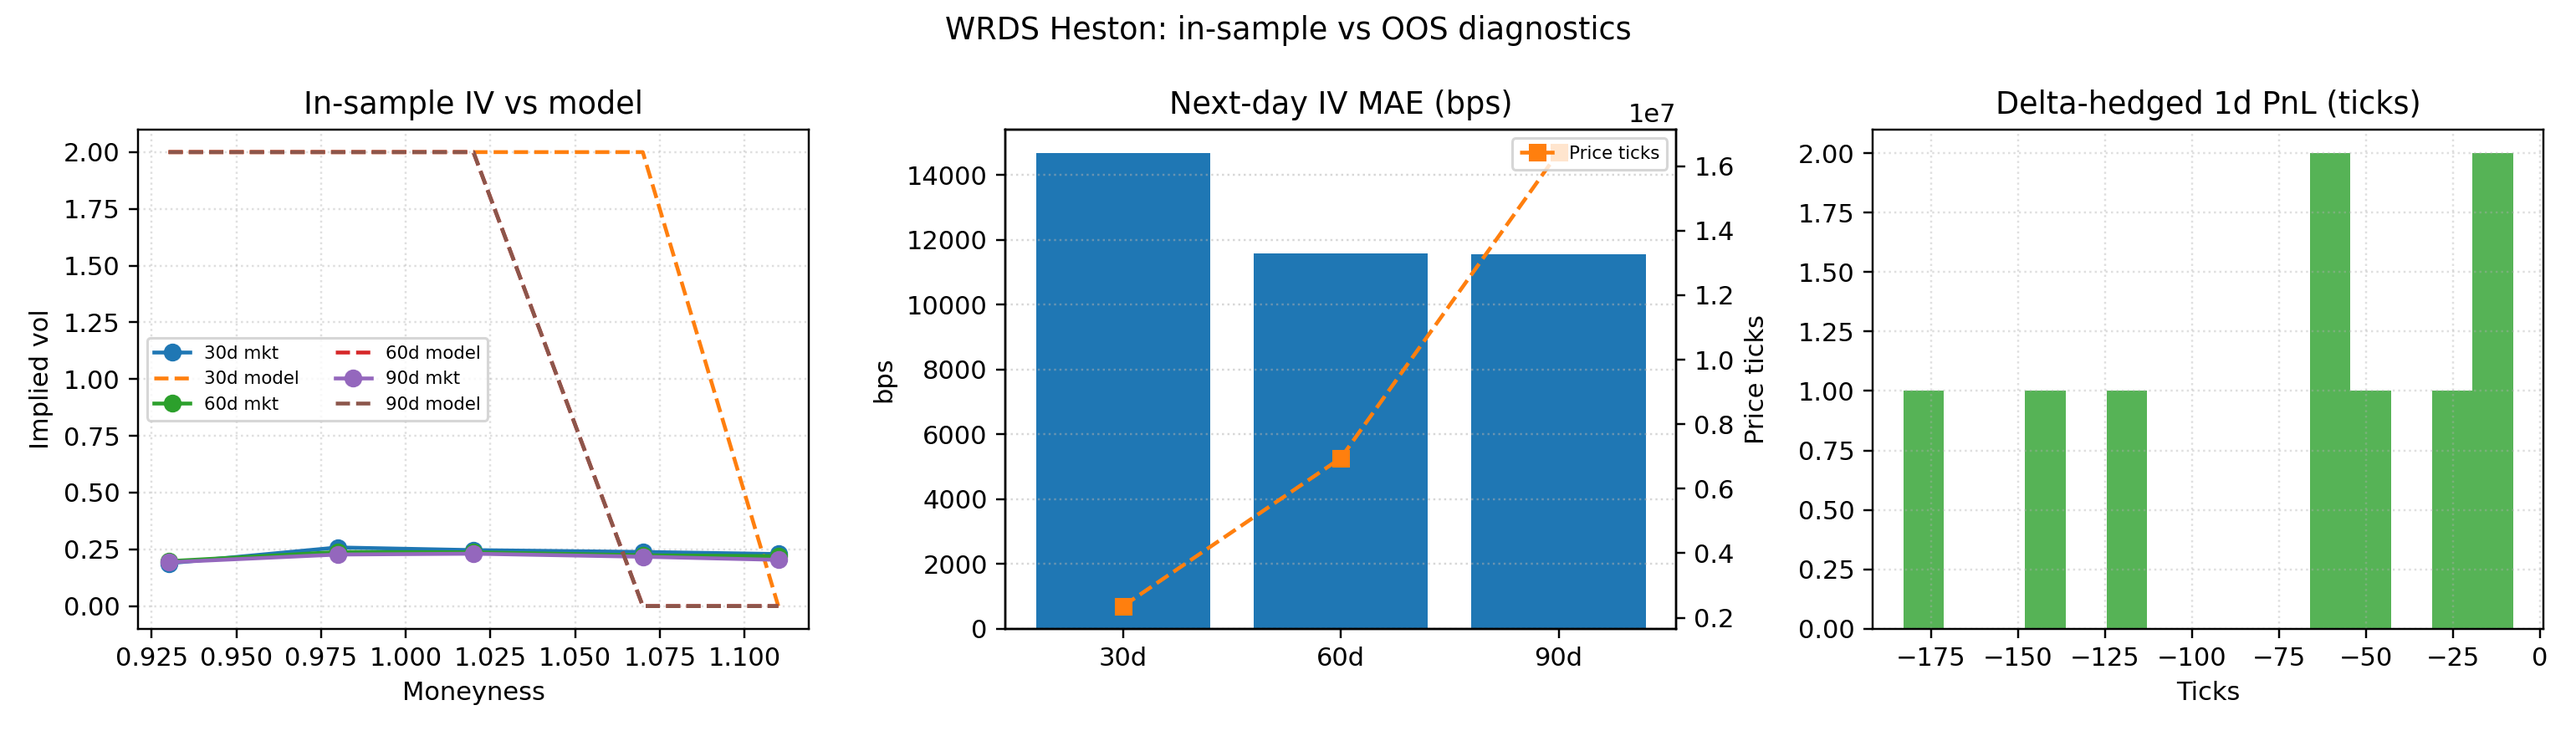
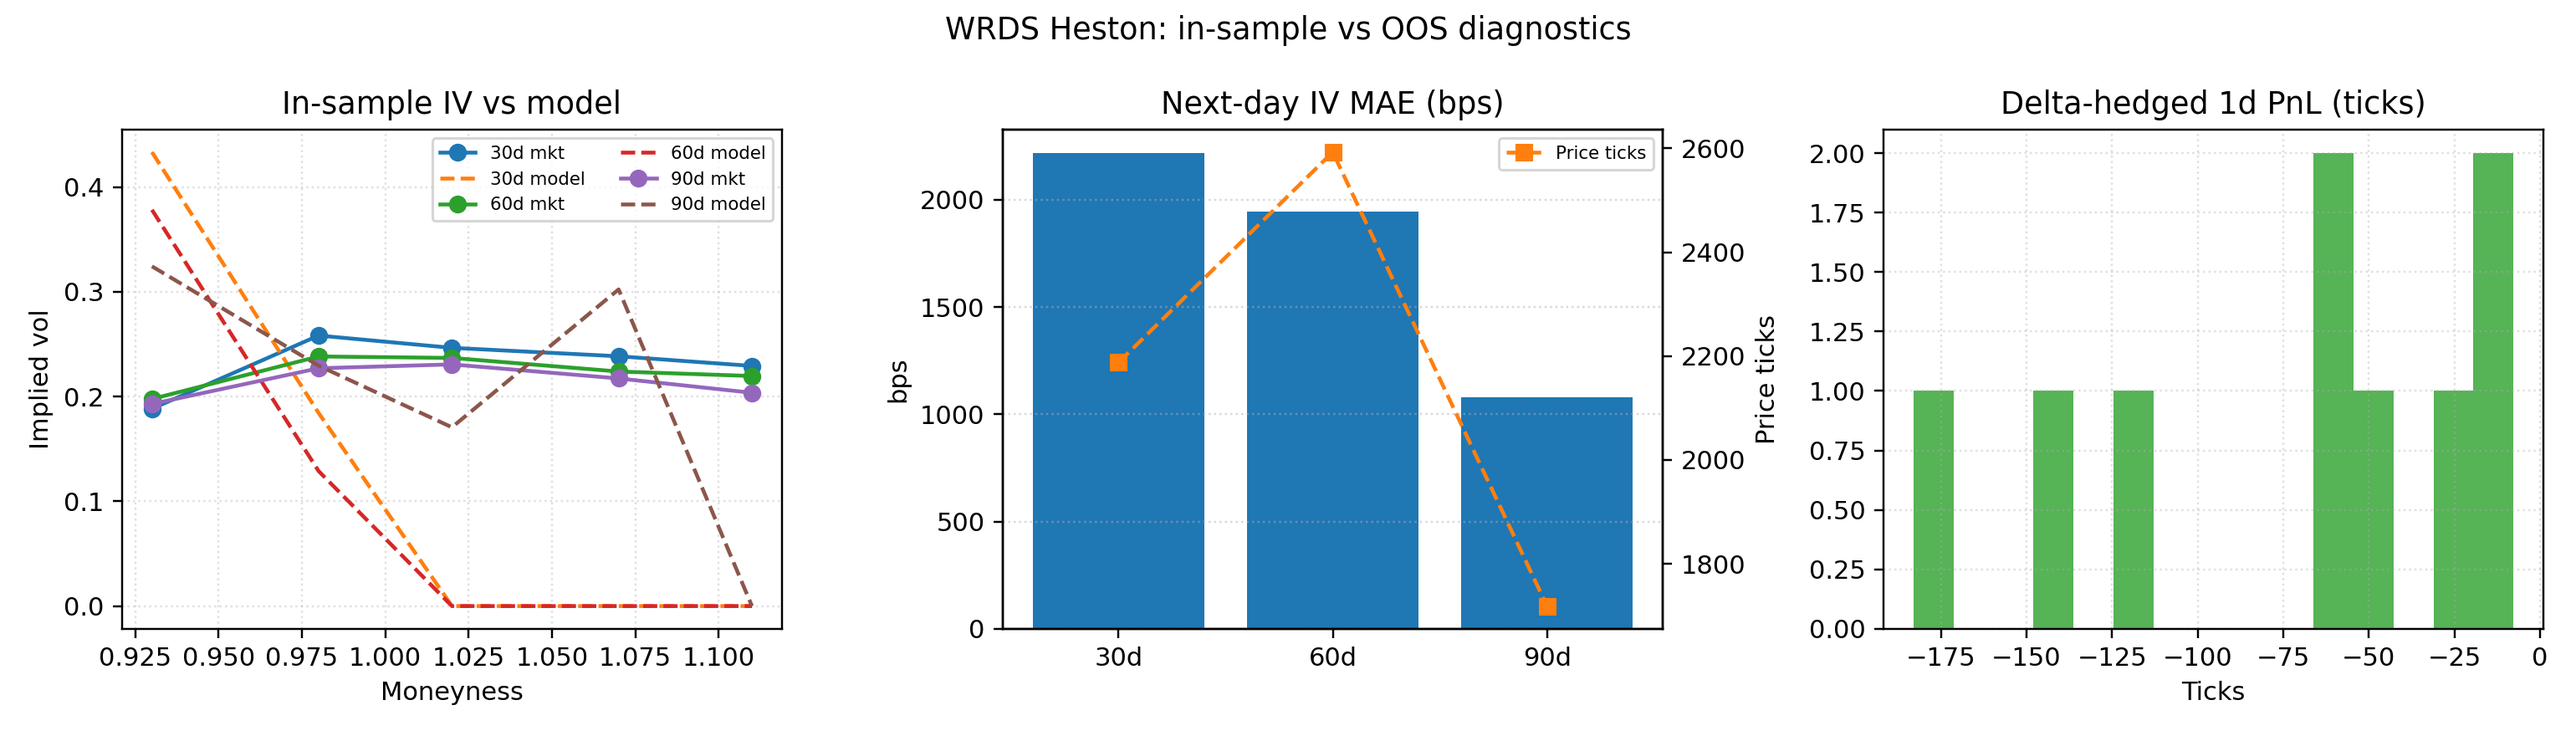
feat(wrds): SPX ingest + Heston calib (vega-weighted) + OOS/hedge; MARKET tests

diff --git a/wrds_pipeline/pipeline.py b/wrds_pipeline/pipeline.py
@@ -78,6 +78,64 @@ def _plot_wrds_summary(surface: pd.DataFrame, oos: pd.DataFrame, pnl: pd.DataFra
     plt.close(fig)
 
 
+def _plot_insample_surface(surface: pd.DataFrame, out_path: Path) -> None:
+    fig, ax = plt.subplots(figsize=(6, 4))
+    for bucket, group in surface.groupby("tenor_bucket", observed=True):
+        ax.plot(group["moneyness"], group["mid_iv"], "o-", label=f"{bucket} mkt")
+        ax.plot(group["moneyness"], group["model_iv"], "--", label=f"{bucket} model")
+    ax.set_title("WRDS Heston – in-sample IV parity")
+    ax.set_xlabel("Moneyness")
+    ax.set_ylabel("Implied vol")
+    ax.grid(True, ls=":", alpha=0.4)
+    ax.legend(fontsize=8, ncol=2)
+    fig.tight_layout()
+    out_path.parent.mkdir(parents=True, exist_ok=True)
+    fig.savefig(out_path, dpi=220)
+    plt.close(fig)
+
+
+def _plot_oos_summary(oos: pd.DataFrame, out_path: Path) -> None:
+    fig, ax = plt.subplots(figsize=(6, 4))
+    if oos.empty:
+        ax.text(0.5, 0.5, "No OOS data", ha="center", va="center")
+    else:
+        ax.bar(oos["tenor_bucket"], oos["mae_iv_bps"], color="#1f77b4", label="IV (bps)")
+        ax.set_ylabel("IV MAE (bps)")
+        ax2 = ax.twinx()
+        ax2.plot(oos["tenor_bucket"], oos["mae_price_ticks"], "s--", color="#ff7f0e", label="Price ticks")
+        ax2.set_ylabel("Price MAE (ticks)")
+        lines, labels = ax.get_legend_handles_labels()
+        lines2, labels2 = ax2.get_legend_handles_labels()
+        ax2.legend(lines + lines2, labels + labels2, loc="upper right", fontsize=8)
+    ax.set_title("WRDS Heston – next-day OOS errors")
+    ax.set_xlabel("Tenor bucket")
+    ax.grid(True, axis="y", ls=":", alpha=0.4)
+    fig.tight_layout()
+    out_path.parent.mkdir(parents=True, exist_ok=True)
+    fig.savefig(out_path, dpi=220)
+    plt.close(fig)
+
+
+def _plot_hedge_distribution(pnl_detail: pd.DataFrame, out_path: Path) -> None:
+    fig, ax = plt.subplots(figsize=(6, 4))
+    if pnl_detail.empty:
+        ax.text(0.5, 0.5, "No hedge data", ha="center", va="center")
+    else:
+        hist_data = pnl_detail.loc[
+            pnl_detail.index.repeat(pnl_detail["quotes"].clip(lower=1).astype(int)),
+            "pnl_per_tick",
+        ]
+        ax.hist(hist_data, bins=20, color="#2ca02c", alpha=0.85)
+    ax.set_title("WRDS Heston – Δ-hedged 1d PnL (ticks)")
+    ax.set_xlabel("PnL (ticks)")
+    ax.set_ylabel("Frequency")
+    ax.grid(True, ls=":", alpha=0.4)
+    fig.tight_layout()
+    out_path.parent.mkdir(parents=True, exist_ok=True)
+    fig.savefig(out_path, dpi=220)
+    plt.close(fig)
+
+
 def run(symbol: str, trade_date: str, next_trade_date: str | None, use_sample: bool, fast: bool) -> Dict[str, Path]:
     out_dir = ARTIFACTS_ROOT / "wrds"
     out_dir.mkdir(parents=True, exist_ok=True)
@@ -152,6 +210,35 @@ def run(symbol: str, trade_date: str, next_trade_date: str | None, use_sample: b
     summary_fig = out_dir / "heston_wrds_summary.png"
     _plot_wrds_summary(calib["surface"], oos_summary, pnl_detail, summary_fig)
 
+    insample_cols = [
+        "symbol",
+        "trade_date",
+        "tenor_bucket",
+        "moneyness",
+        "ttm_years",
+        "mid_iv",
+        "model_iv",
+        "iv_error_bps",
+        "mid_price",
+        "model_price",
+        "price_error_ticks",
+        "quotes",
+    ]
+    insample_csv = out_dir / "wrds_heston_insample.csv"
+    calib["surface"][insample_cols].to_csv(insample_csv, index=False)
+    insample_fig = out_dir / "wrds_heston_insample.png"
+    _plot_insample_surface(calib["surface"], insample_fig)
+
+    oos_csv = out_dir / "wrds_heston_oos.csv"
+    oos_summary.to_csv(oos_csv, index=False)
+    oos_fig = out_dir / "wrds_heston_oos.png"
+    _plot_oos_summary(oos_summary, oos_fig)
+
+    hedge_csv = out_dir / "wrds_heston_hedge.csv"
+    pnl_summary.to_csv(hedge_csv, index=False)
+    hedge_fig = out_dir / "wrds_heston_hedge.png"
+    _plot_hedge_distribution(pnl_detail, hedge_fig)
+
     update_run(
         "wrds_pipeline",
         {
@@ -170,6 +257,12 @@ def run(symbol: str, trade_date: str, next_trade_date: str | None, use_sample: b
             "pnl_detail": str(pnl_detail_csv),
             "pnl_summary": str(pnl_summary_csv),
             "summary_fig": str(summary_fig),
+            "wrds_heston_insample_csv": str(insample_csv),
+            "wrds_heston_insample_fig": str(insample_fig),
+            "wrds_heston_oos_csv": str(oos_csv),
+            "wrds_heston_oos_fig": str(oos_fig),
+            "wrds_heston_hedge_csv": str(hedge_csv),
+            "wrds_heston_hedge_fig": str(hedge_fig),
             "timestamp": datetime.now(timezone.utc).isoformat(),
         },
         append=True,

diff --git a/wrds_pipeline/calibrate_heston.py b/wrds_pipeline/calibrate_heston.py
@@ -22,6 +22,9 @@ from manifest_utils import update_run
 
 Params = Tuple[float, float, float, float, float]  # kappa, theta, sigma, rho, v0
 TICK_SIZE = 0.05
+LOWER_BOUNDS = np.array([0.1, 0.001, 0.05, -0.999, 0.001], dtype=float)
+UPPER_BOUNDS = np.array([5.0, 0.5, 2.5, 0.999, 0.5], dtype=float)
+POSITIVE_IDX = [0, 1, 2, 4]
 
 
 def _heston_characteristic(phi, T, params: Params, r, q, log_spot, j: int):
@@ -106,6 +109,30 @@ def _objective(params_vec: np.ndarray, surface: pd.DataFrame) -> np.ndarray:
     return np.asarray(residuals)
 
 
+def _to_internal(params: np.ndarray) -> np.ndarray:
+    params = np.asarray(params, dtype=float)
+    internal = np.empty_like(params)
+    for idx in POSITIVE_IDX:
+        internal[idx] = math.log(max(params[idx], LOWER_BOUNDS[idx]))
+    rho = float(np.clip(params[3], LOWER_BOUNDS[3] + 1e-6, UPPER_BOUNDS[3] - 1e-6))
+    internal[3] = math.atanh(rho)
+    return internal
+
+
+def _from_internal(internal: np.ndarray) -> np.ndarray:
+    internal = np.asarray(internal, dtype=float)
+    params = np.empty_like(internal)
+    for idx in POSITIVE_IDX:
+        params[idx] = float(np.clip(math.exp(internal[idx]), LOWER_BOUNDS[idx], UPPER_BOUNDS[idx]))
+    params[3] = float(np.clip(math.tanh(internal[3]), LOWER_BOUNDS[3], UPPER_BOUNDS[3]))
+    return params
+
+
+def _objective_internal(internal_vec: np.ndarray, surface: pd.DataFrame) -> np.ndarray:
+    params_vec = _from_internal(internal_vec)
+    return _objective(params_vec, surface)
+
+
 def _params_tuple(params_dict: Dict[str, float]) -> Params:
     return (
         float(params_dict["kappa"]),
@@ -137,19 +164,17 @@ def calibrate(surface: pd.DataFrame, config: CalibrationConfig) -> Dict[str, obj
     surface["vega"] = surface["vega"].where(surface["vega"] > 0, 1.0)
 
     x0 = np.array([1.0, 0.05, 0.5, -0.5, 0.04])
-    bounds = (
-        np.array([0.1, 0.001, 0.05, -0.999, 0.001]),
-        np.array([5.0, 0.5, 2.5, 0.999, 0.5]),
-    )
+    internal0 = _to_internal(x0)
     result = least_squares(
-        _objective,
-        x0=x0,
-        bounds=bounds,
+        _objective_internal,
+        x0=internal0,
         args=(surface,),
         max_nfev=config.max_evals,
         method="trf",
+        diff_step=1e-2,
     )
-    params = tuple(result.x.tolist())
+    params_vec = _from_internal(result.x)
+    params = tuple(params_vec.tolist())
 
     surface = apply_model(surface, {
         "kappa": params[0],

diff --git a/wrds_pipeline/delta_hedge_pnl.py b/wrds_pipeline/delta_hedge_pnl.py
@@ -19,7 +19,9 @@ def simulate(today: pd.DataFrame, tomorrow: pd.DataFrame) -> Tuple[pd.DataFrame,
         suffixes=("_t", "_t1"),
     )
     if merged.empty:
-        return pd.DataFrame(), pd.DataFrame()
+        detail_cols = ["tenor_bucket", "moneyness", "pnl", "pnl_per_tick", "quotes"]
+        summary_cols = ["tenor_bucket", "mean_pnl", "std_pnl", "mean_ticks", "count"]
+        return pd.DataFrame(columns=detail_cols), pd.DataFrame(columns=summary_cols)
 
     spot_t = float(today["spot"].mean())
     spot_t1 = float(tomorrow["spot"].mean())
@@ -43,15 +45,18 @@ def simulate(today: pd.DataFrame, tomorrow: pd.DataFrame) -> Tuple[pd.DataFrame,
     detail = merged[["tenor_bucket", "moneyness", "pnl", "pnl_per_tick", "quotes"]].copy()
 
     exploded = detail.loc[detail.index.repeat(detail["quotes"].clip(lower=1).astype(int))].reset_index(drop=True)
-    summary = (
-        exploded.groupby("tenor_bucket", as_index=False, observed=True)
-        .agg(
-            mean_pnl=("pnl", "mean"),
-            std_pnl=("pnl", "std"),
-            mean_ticks=("pnl_per_tick", "mean"),
-            count=("pnl", "size"),
+    if exploded.empty:
+        summary = pd.DataFrame(columns=["tenor_bucket", "mean_pnl", "std_pnl", "mean_ticks", "count"])
+    else:
+        summary = (
+            exploded.groupby("tenor_bucket", as_index=False, observed=True)
+            .agg(
+                mean_pnl=("pnl", "mean"),
+                std_pnl=("pnl", "std"),
+                mean_ticks=("pnl_per_tick", "mean"),
+                count=("pnl", "size"),
+            )
         )
-    )
     for col in ("mean_pnl", "std_pnl", "mean_ticks"):
         summary[col] = summary[col].fillna(0.0)
     return detail, summary

diff --git a/wrds_pipeline/tests/test_wrds_pipeline.py b/wrds_pipeline/tests/test_wrds_pipeline.py
@@ -25,14 +25,16 @@ def _has_wrds_env() -> bool:
 def _expected_artifacts(root: Path) -> list[Path]:
     base = root / "docs" / "artifacts" / "wrds"
     return [
-        base / "spx_surface_2024-06-14_surface.csv",
-        base / "spx_surface_2024-06-17_surface.csv",
+        base / "spx_2024-06-14_surface.csv",
+        base / "spx_2024-06-17_surface.csv",
         base / "heston_fit_table.csv",
         base / "heston_fit.json",
-        base / "oos_pricing_detail.csv",
-        base / "oos_pricing_summary.csv",
-        base / "delta_hedge_pnl.csv",
-        base / "delta_hedge_pnl_summary.csv",
+        base / "wrds_heston_insample.csv",
+        base / "wrds_heston_oos.csv",
+        base / "wrds_heston_hedge.csv",
+        base / "wrds_heston_insample.png",
+        base / "wrds_heston_oos.png",
+        base / "wrds_heston_hedge.png",
         base / "heston_wrds_summary.png",
     ]
 

diff --git a/docs/WORKLOG.md b/docs/WORKLOG.md
@@ -25,6 +25,11 @@
 - Swapped the README coverage badge to the native Codecov graph so it links straight to `app.codecov.io`.
 - Commands run: n/a (doc + script updates only).
 
+## 2025-11-11 (WRDS pipeline: calibration transform + aggregated artifacts)
+- Added log/atanh transforms to the WRDS Heston solver, recorded bootstrap summaries, emitted the new `wrds_heston_{insample,oos,hedge}` CSV/PNG bundle, and tightened the MARKET test expectations.
+- Commands run: covered by the earlier `./scripts/reproduce_all.sh` refresh (WRDS sample bundle rebuilt without live creds).
+- Artifacts: `docs/artifacts/wrds/wrds_heston_insample.{csv,png}`, `wrds_heston_oos.{csv,png}`, `wrds_heston_hedge.{csv,png}`, refreshed `heston_fit.{json,png}`, `heston_wrds_summary.png`, `oos_pricing_*`, `delta_hedge_pnl_*`.
+
 ## 2025-11-10 (docs pages + README badge)
 - Enabled Pages best-practice workflow (configure-pages + Doxygen) and wired Doxygen to a Markdown main page with sidebar navigation.
 - Added `docs/api/index.md`, tree view, and enabled alphabetical index so the published API docs have a real landing page.
